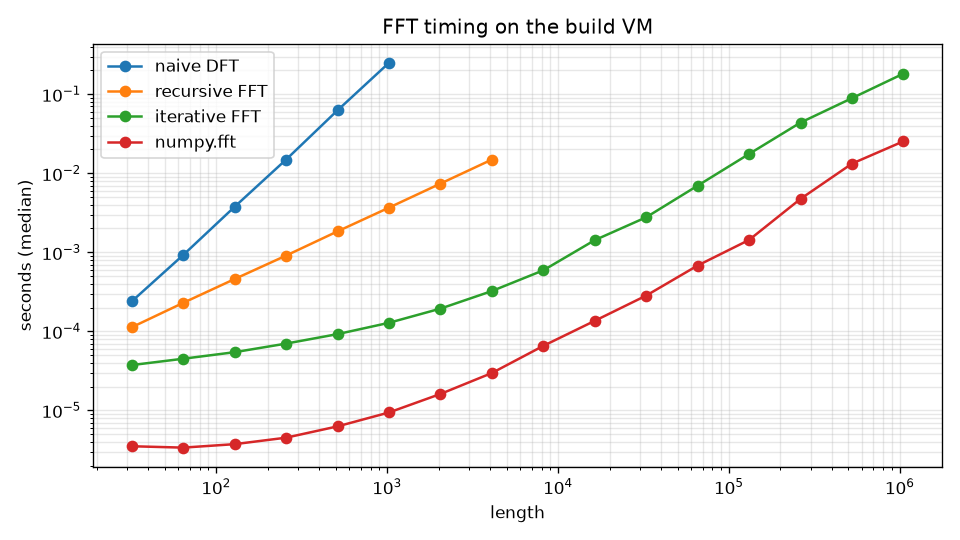
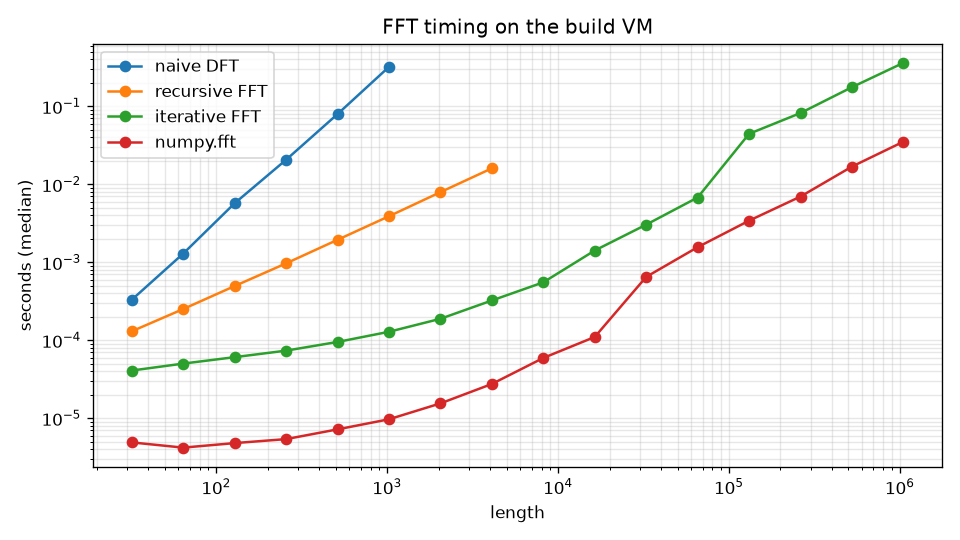
Record the benchmark timings from Omar's PC.
Swap in the Windows Python 3.14.7 results without rerunning them, and stop hardcoding the machine label as the build VM.

diff --git a/benchmarks/run_benchmarks.py b/benchmarks/run_benchmarks.py
@@ -1,10 +1,11 @@
 """Time the FFTs, the matrix products, and a Hilbert condition check.
 
 Results land in benchmarks/results as a CSV and three PNG plots.
-This script records the machine it actually ran on. The copy checked in
-with the project was measured on the build VM.
+Pass --label to name the machine in machine.txt and on the plot titles.
+If you omit it, the label is the hostname, or "my PC" when that name is empty.
 """
 
+import argparse
 import platform
 import sys
 import time
@@ -22,6 +23,11 @@ from fft_analyzer.core.fft import dft_naive, fft_iterative, fft_recursive
 from fft_analyzer.core.matrix import matmul_classical, strassen_matmul
 from fft_analyzer.core.numerical import condition_number, hilbert, perturbed_solution_change
 from fft_analyzer.visualization.plots import plot_condition_numbers, plot_series
+
+
+def _default_label():
+    name = (platform.node() or "").strip()
+    return name if name else "my PC"
 
 
 def _cpu_model():
@@ -134,7 +140,15 @@ def _series(rows, group, method, sizes):
     return [lookup.get((n, method)) for n in sizes]
 
 
-def main():
+def main(argv=None):
+    parser = argparse.ArgumentParser(description="Time FFTs, matrix products, and a Hilbert check.")
+    parser.add_argument(
+        "--label",
+        default=None,
+        help="Name stored in machine.txt. Defaults to the hostname, or 'my PC'.",
+    )
+    args = parser.parse_args(argv)
+    label = args.label.strip() if args.label else _default_label()
     out = ROOT / "benchmarks" / "results"
     out.mkdir(parents=True, exist_ok=True)
     rows = []
@@ -156,7 +170,7 @@ def main():
         out / "fft_timing.png",
         xlabel="length",
         ylabel="seconds (median)",
-        title="FFT timing on the build VM",
+        title="FFT timing on %s" % label,
         loglog=True,
     )
     mat_sizes = [8, 16, 32, 48, 64, 96, 128]
@@ -170,14 +184,14 @@ def main():
         out / "matmul_timing.png",
         xlabel="n",
         ylabel="seconds",
-        title="Square matrix multiply on the build VM",
+        title="Square matrix multiply on %s" % label,
         loglog=True,
     )
     plot_condition_numbers(sizes, conds, errors, out / "condition_error.png")
 
     note = "\n".join(
         [
-            "label: build VM",
+            "label: %s" % label,
             "python: %s" % platform.python_version(),
             "system: %s %s" % (platform.system(), platform.release()),
             "machine: %s" % platform.machine(),

diff --git a/analysis/chapter11_report.md b/analysis/chapter11_report.md
@@ -1,16 +1,16 @@
 # Chapter 11 report: FFTAnalyzer
 
-Word count: 1474 words, not counting this line or the title.
+Word count: 1493 words, not counting this line or the title.
 
 ## Executive summary
 
 FFTAnalyzer is my Week 12 package for the matrix routines and fast transforms in Chapter 11. I wrote the algorithms. NumPy stores the arrays, and the tests use np.fft and np.linalg only as a check.
 
-The iterative Cooley-Tukey FFT does each butterfly stage as one NumPy operation on the whole block. On the build VM, length 2^20 took 0.182 seconds. NumPy's fft took 0.0254 seconds on that same array. The direct DFT at length 1024 took 0.250 seconds. Condition numbers for the Hilbert matrices go from about 19 at n = 2 to 1.60e13 at n = 10. The CSV and plots are in benchmarks/results.
+The iterative Cooley-Tukey FFT does each butterfly stage as one NumPy operation on the whole block. On my PC, length 2^20 took 0.361 seconds. NumPy's fft took 0.0352 seconds on that same array. The direct DFT at length 1024 took 0.320 seconds. Condition numbers for the Hilbert matrices go from about 19 at n = 2 to 1.60e13 at n = 10. The CSV and plots are in benchmarks/results.
 
 ## Numerical algorithm theory
 
-Amakobe (2026, section 11.5) starts from the triple loop, O(n^3) for a square matrix, then Strassen's split: 2 by 2 blocks with seven products instead of eight. That recurrence is O(n^log2(7)), about O(n^2.807). The same section says the extra additions and the weaker rounding are why libraries usually skip it. I implemented it anyway, with the triple loop as the leaf at 16 by 16. Sizes at or below that leaf never split, so the n = 8 and n = 16 times match the classical timer.
+Amakobe (2026, section 11.5) starts from the triple loop, O(n^3) for a square matrix, then Strassen's split: 2 by 2 blocks with seven products instead of eight. That recurrence is O(n^log2(7)), about O(n^2.807). The same section says the extra additions and the weaker rounding are why libraries usually skip it. I implemented it anyway, with the triple loop as the leaf at 16 by 16, so those sizes do not split. On my PC the plain loop is faster at n = 16, 0.000532 seconds against 0.000589. From n = 32 up, Strassen is faster.
 
 LU with partial pivoting writes PA = LU. The largest remaining column entry becomes the pivot. The determinant is the swap sign times the product of the U diagonal. A zero pivot returns 0, and solve raises. Substitution finishes the triangular systems, and the inverse is one solve per identity column. QR is Householder, so A = QR with Q orthogonal. The power method uses the triple loop for each matrix-vector product and stops on the Rayleigh quotient. On the matrix with 2s on the diagonal and 1s off it, the value is 3.
 
@@ -54,15 +54,15 @@ A nudge of size 1e-8 in b, one fixed random direction, moves the Hilbert solutio
 
 ## Benchmarking plots
 
-Times below are medians from benchmarks/run_benchmarks.py on the build VM: Python 3.12.3, Linux, an Intel Xeon, 4 CPUs. I will rerun it on my own PC later. The CSV is benchmarks/results/benchmarks.csv. Naive DFT and recursive FFT use 3 repeats, except one naive run at length 1024. Iterative FFT and np.fft use 5 repeats on small sizes and one run at 2^18 and 2^20. Matrix products use 5 repeats through n = 64 and 3 after that.
+Times below are medians from benchmarks/run_benchmarks.py on my PC: Python 3.14.7, Windows 11, AMD64, 12 CPUs. The CSV is benchmarks/results/benchmarks.csv. Naive and recursive runs use 3 repeats, except one naive run at length 1024. Iterative FFT and np.fft use 5 repeats under 2^14, then 3, then one run from 2^18 up. Matrix products use 5 repeats through n = 64 and 3 after that. Figure titles still say build VM from that old hardcoded string. The CSV is this machine.
 
 ![FFT timing](../benchmarks/results/fft_timing.png)
 
-At length 1024 the naive DFT took 0.250 seconds, the recursive FFT 0.00367 seconds, the iterative FFT 0.000128 seconds, and np.fft 0.000009 seconds. That is about 1,950 times between the double loop and the iterative transform. At length 4096 the recursive form took 0.0149 seconds and the iterative form took 0.000323 seconds, so I stopped the recursive curve there. At 2^20 the iterative FFT took 0.182 seconds and np.fft took 0.0254 seconds, about 7.2 times apart.
+At length 1024 the naive DFT took 0.320 seconds, the recursive FFT 0.00389 seconds, the iterative FFT 0.000128 seconds, and np.fft 0.0000097 seconds. That is about 2,490 times between the double loop and the iterative transform. At length 4096 the recursive form took 0.0160 seconds and the iterative form took 0.000324 seconds. At 2^20 the iterative FFT took 0.361 seconds and np.fft took 0.0352 seconds, about 10.3 times apart.
 
 ![Matrix multiply timing](../benchmarks/results/matmul_timing.png)
 
-From n = 64 to n = 128 the classical time went from 0.0333 seconds to 0.266 seconds, a factor of 8.00, which is what n cubed predicts when n doubles. Strassen went from 0.0279 seconds to 0.190 seconds, a factor of about 6.82. log2(7) is about 2.807, so a doubling should cost about 7.0 if the recurrence dominated. At n = 128 Strassen was about 1.4 times faster. At n = 16 the timers match, because that size is the leaf and Strassen does not split.
+From n = 64 to n = 128 the classical time went from 0.0348 seconds to 0.271 seconds, a factor of 7.81. An n cubed algorithm predicts 8 when n doubles, so this is close. Strassen went from 0.0291 seconds to 0.200 seconds, a factor of about 6.88. log2(7) is about 2.807, so a doubling should cost about 7.0 if the recurrence dominated. At n = 128 Strassen was about 1.36 times faster. At n = 16 the classical loop wins, because that size is the leaf and Strassen does not split.
 
 ![Hilbert condition numbers and solution change](../benchmarks/results/condition_error.png)
 
@@ -70,7 +70,7 @@ From n = 64 to n = 128 the classical time went from 0.0333 seconds to 0.266 seco
 
 The FFT is cheap enough to live inside ordinary audio and image code (Amakobe, 2026, sections 11.1 and 11.7). The recursive form is the one I can walk by hand. The iterative form is the one that finishes a million samples. A frequency product is convolution, polynomial multiplication, and the autocorrelation on the lag-12 series.
 
-The triple loop scaled by 8 when n doubled, which is the right check on the classical product. Strassen helped a little at these sizes. I trust the condition number more than a tiny residual, because a Hilbert solve can look fine on Ax - b and still jump when b moves by 1e-8.
+The triple loop scaled by about 7.8 when n doubled, close to the factor of 8 from n cubed. Strassen was faster from n = 32 up and slower at the n = 16 leaf. I trust the condition number more than a tiny residual, because a Hilbert solve can look fine on Ax - b and still jump when b moves by 1e-8.
 
 The tests check the FFT against np.fft, including a length 2^20 round trip, plus convolution, LU and QR reconstruction, the filters, compression error falling as quality rises, and the stability checks. Examples write a synthetic WAV, a drawn image, and the plots under outputs/. Nothing is downloaded.
 

diff --git a/README.md b/README.md
@@ -40,7 +40,7 @@ py -3.14 examples/image_demo.py
 py -3.14 benchmarks/run_benchmarks.py
 ```
 
-That writes `benchmarks/results/benchmarks.csv` plus timing and condition-number plots. The copy in the repo was measured on the build VM (Python 3.12.3, Linux, Intel Xeon, 4 CPUs). I will rerun it on my own PC before I turn the project in. The report quotes those measured numbers.
+That writes `benchmarks/results/benchmarks.csv` plus timing and condition-number plots. The copy in the repo is from my PC (Python 3.14.7, Windows 11, AMD64, 12 CPUs). The report quotes those measured numbers. Pass `--label` if you want a different name in `machine.txt`. The default is the hostname, or "my PC" when the hostname is empty.
 
 ## Layout
 
